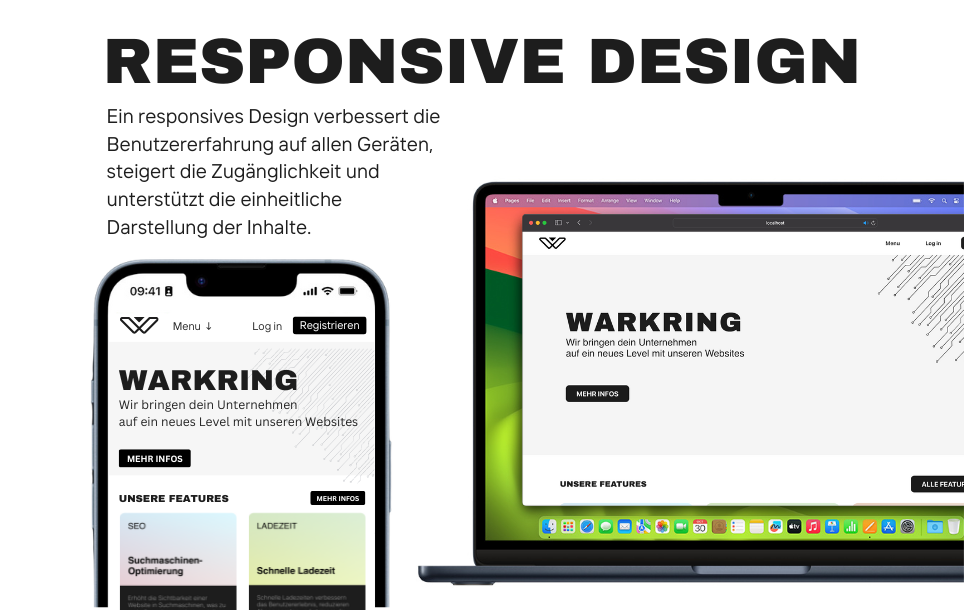
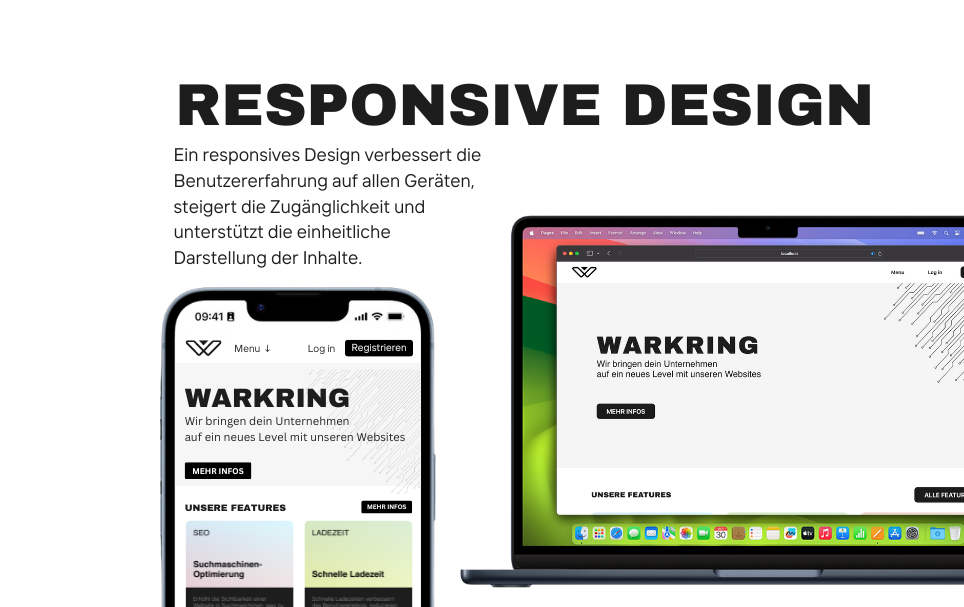
new animation for featureSlides and featureDesign-design

diff --git a/portfolio/src/FeaturesSlides/FeatureSlide/FeatureSlide.css b/portfolio/src/FeaturesSlides/FeatureSlide/FeatureSlide.css
@@ -1,45 +1,62 @@
 .Main_FeatureSlide_Container {
+    width: 300px;
+    height: 300px;
+    overflow: hidden;
+    position: relative;
+    border-radius: 45px;
+}
+
+.Main_FeatureSlide_Flipper {
+    width: 100%;
     height: 100%;
-    width: 30%;
-    transition: all 0.1s ease-in-out;
+    transition: transform 0.6s ease-in-out;
+    position: absolute;
+    top: 0;
 }
 
 .Main_FeatureSlide_Top {
     display: flex;
     flex-direction: column;
     justify-content: space-evenly;
+    align-items: center;
+    width: 100%;
+    height: 100%;
+    position: absolute;
     border-radius: 45px;
-    width: 300px;
-    height: 300px;
-}
-
-.Main_FeatureSlide_Top:hover {
-    margin-top: -20px;
-    .Main_FeatureSlide_Bottom p {
-        visibility: visible;
-    }
+    background-color: #f8f8f8;
+    z-index: 2;
+    transition: transform 0.3s ease-in-out;
 }
 
 .Main_FeatureSlide_Bottom {
-    visibility: hidden;
     display: flex;
     justify-content: center;
-    width: 80%;
-    height: 50%;
-    margin-top: 10px;
-    border-bottom-left-radius: 20px;
-    color: #262626;
-    border-bottom-right-radius: 20px;
-    transition: all 0.2s ease-in-out;
+    width: 100%;
+    height: 100%;
+    position: absolute;
+    top: 100%;
+    transition: top 0.3s ease-in-out;
+    background-color: #f8f8f8;
+    color: white;
+    border-radius: 45px;
 }
 
-.Main_FeatureSlide_Bottom p {
-    font-family: -apple-system, BlinkMacSystemFont, "Segoe UI", Roboto, Oxygen, Ubuntu, Cantarell, "Open Sans", "Helvetica Neue", sans-serif;    font-size: 1.3rem;
-    letter-spacing: 1px;
-    font-weight: 100;
-    width: 95%;
-    color: white;
-    transition: all 0.2s ease-in-out;
+.Main_FeatureSlide_Container:hover .Main_FeatureSlide_Top {
+    transform: translateY(-90%);
+}
+
+.Main_FeatureSlide_Container:hover .Main_FeatureSlide_Bottom {
+    top: 0;
+}
+
+.Main_FeatureSlide_Top {
+    display: flex;
+    flex-direction: column;
+    justify-content: space-between;
+    align-items: start;
+    border-radius: 45px;
+    width: 300px;
+    height: 300px;
 }
 
 .Main_FeatureSlide_Top p {
@@ -59,6 +76,12 @@
     width: 80%;
 }
 
-.Main_FeatureSlide_Bottom img {
-    width: 80%;
+.Main_FeatureSlide_Bottom p {
+    font-family: -apple-system, BlinkMacSystemFont, "Segoe UI", Roboto, Oxygen, Ubuntu, Cantarell, "Open Sans", "Helvetica Neue", sans-serif;    font-size: 1.3rem;
+    letter-spacing: 1px;
+    font-weight: 100;
+    width: 90%;
+    color: #1d1d1d;
+    margin-top: 50px;
+    transition: all 0.2s ease-in-out;
 }

diff --git a/portfolio/src/FeaturesSlides/FeatureSlide/FeatureSlideData.jsx b/portfolio/src/FeaturesSlides/FeatureSlide/FeatureSlideData.jsx
@@ -4,27 +4,27 @@ export const featureSlideData = [
         type: 'SEO',
         text: "Erhöht die Sichtbarkeit einer Website in Suchmaschinen, was zu mehr Besuchern und potenziellen Kunden führt. Es verbessert die Benutzererfahrung und steigert die Glaubwürdigkeit der Marke.",
         background: '#ff6251',
-        boxShadow: 'inset 30px 30px 60px #d95345, inset -30px -30px 60px #ff715d'
+        boxShadow: 'inset 30px 30px 60px #f13e31, inset -30px -30px 60px #ff836d',
     },
     {
         name: 'Responsives Design',
         type: 'RESPONSIVE',
         text: "Ein responsives Design verbessert die Benutzererfahrung auf allen Geräten, steigert die Zugänglichkeit und unterstützt die einheitliche Darstellung der Inhalte.",
         background: '#3a88fe',
-        boxShadow: 'inset 30px 30px 60px #3174d8, inset -30px -30px 60px #439cff'
+        boxShadow: 'inset 30px 30px 60px #3070d0, inset -30px -30px 60px #4eb6ff'
     },
     {
         name: 'Sicherheit der Kunden',
         type: 'SICHERHEIT',
         text: "Eine hohe Sicherheit schützt die Website vor Cyberangriffen, sichert Kundendaten und stärkt das Vertrauen der Nutzer. Sie minimiert Risiken von Datenverlust und verbessert das Ranking in Suchmaschinen.",
         background: '#96d35f',
-        boxShadow: 'inset 30px 30px 60px #80b351, inset -30px -30px 60px #adf36d'
+        boxShadow: 'inset 30px 30px 60px #7bb63f, inset -30px -30px 60px #c9ff7f'
     },
     {
         name: 'Sicherheit der Kunden',
         type: 'SICHERHEIT',
         text: "Eine hohe Sicherheit schützt die Website vor Cyberangriffen, sichert Kundendaten und stärkt das Vertrauen der Nutzer. Sie minimiert Risiken von Datenverlust und verbessert das Ranking in Suchmaschinen.",
         background: '#be38f3',
-        boxShadow: 'inset 30px 30px 60px #a230cf, inset -30px -30px 60px #db40ff'
+        boxShadow: 'inset 30px 30px 60px #942abd, inset -30px -30px 60px #ff4bff'
     },
 ];

diff --git a/portfolio/src/FeaturesSlides/FeatureSlide/FeatureSlide.jsx b/portfolio/src/FeaturesSlides/FeatureSlide/FeatureSlide.jsx
@@ -2,20 +2,13 @@ import React, { useState } from 'react';
 import './FeatureSlide.css';
 
 function FeatureSlide(props) {
-    const backgroundStyle = {
-        backgroundImage: props.featureData.backgroundImage
-    };
-
-    const [isHovered, setIsHovered] = useState(false);
     const defaultBackground = {
         backgroundColor: props.featureData.background,
-        boxShadow: props.featureData.boxShadow
+        boxShadow: props.featureData.boxShadow,
     };
 
     return (
-        <div className="Main_FeatureSlide_Container"
-             onMouseEnter={() => setIsHovered(true)}
-             onMouseLeave={() => setIsHovered(false)}>
+        <div className="Main_FeatureSlide_Container">
             <div className="Main_FeatureSlide_Top" style={defaultBackground}>
                 <p className="Main_FeatureSlide_Top_Header">{props.featureData.type}</p>
                 <p className="Main_FeatureSlide_Top_Text">{props.featureData.name}</p>
@@ -28,4 +21,3 @@ function FeatureSlide(props) {
 }
 
 export default FeatureSlide;
-

diff --git a/portfolio/src/FeaturesDesigns/FeatureDesign.css b/portfolio/src/FeaturesDesigns/FeatureDesign.css
@@ -3,15 +3,15 @@
     justify-content: center;
     align-items: center;
     width: 100%;
-    height: 600px;
-    margin-top: 100px;
+    height: 400px;
+    margin-top: 50px;
     background-color: transparent;
 }
 
 .FeatureDesign_Container {
     display: flex;
     flex-direction: row;
-    justify-content: space-evenly;
+    justify-content: center;
     align-items: center;
     width: 90%;
     height: 100%;
@@ -21,14 +21,8 @@
 .FeatureDesign_Right, .FeatureDesign_Left {
     display: flex;
     flex-direction: column;
+    justify-content: center;
     width: 45%;
     height: 100%;
     background-color: transparent;
-}
-
-.FeatureDesign_Right img, .FeatureDesign_Left img {
-    width: 100%;
-    height: auto;
-    border-top-left-radius: 40px;
-    border-top-right-radius: 40px;
 }

diff --git a/portfolio/src/FeaturesSlides/FeatureSlides.css b/portfolio/src/FeaturesSlides/FeatureSlides.css
@@ -12,7 +12,7 @@
     align-items: center;
     flex-direction: column;
     width: 100%;
-    height: 500px;
+    height: 300px;
     margin-top: 20px;
     background-color: transparent;
 }
